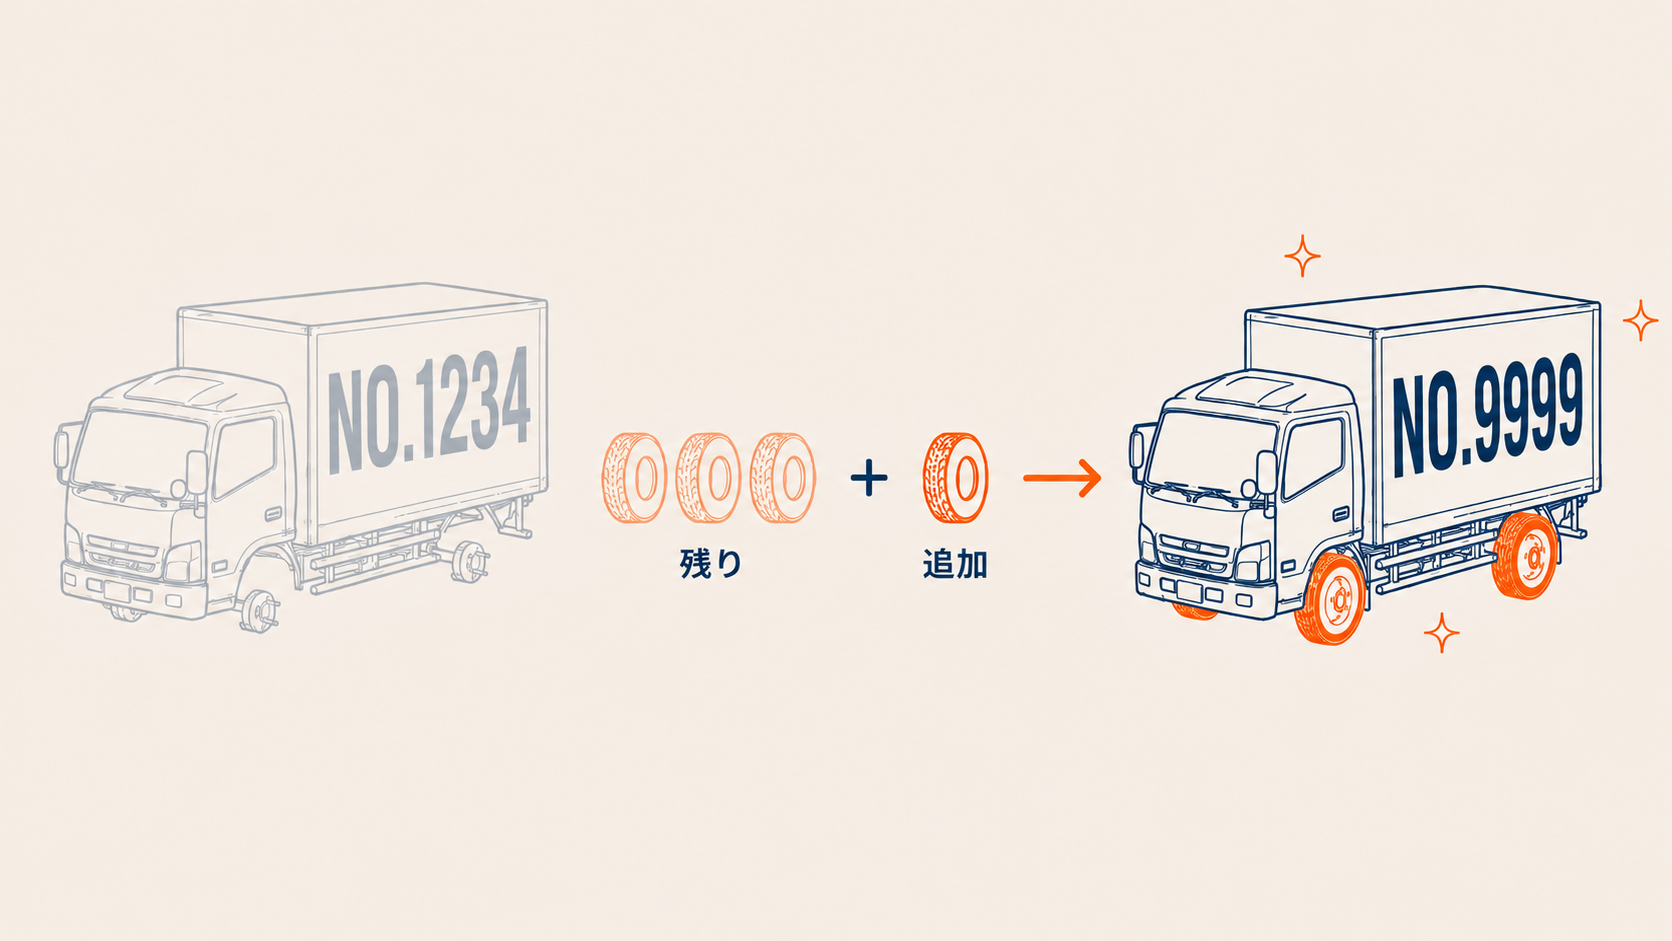
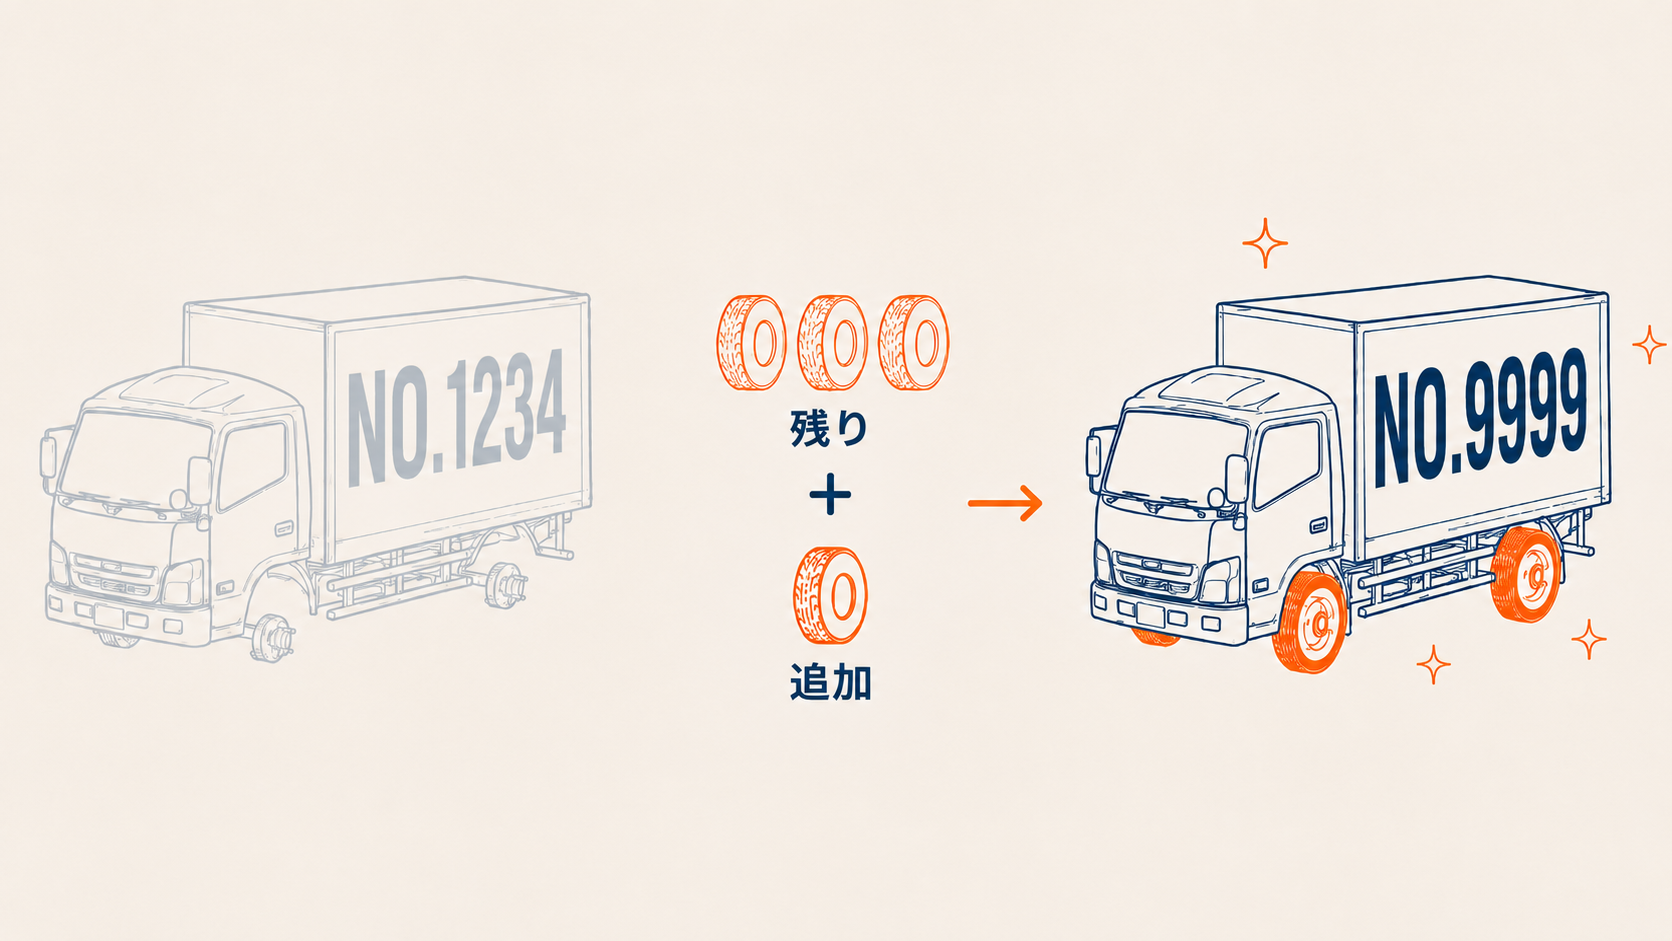
パターン03画像を縦スタック日本語ラベル版に更新、HTMLオーバーレイ削除
- lease-03.png を「残り (3本) + 追加 (1本)」を縦に積んだ新バージョンに差し替え
- 日本語ラベル「残り」「追加」が画像内に綺麗に焼き込まれたので、
  HTML側の .ja-label オーバーレイは不要になったため削除
- CSSの ja-label / ja-cover 関連スタイルも整理

diff --git a/index.html b/index.html
@@ -277,28 +277,6 @@ nav { position: fixed; top: 0; left: 0; right: 0; z-index: 100; display: flex; a
 }
 .lease-card:hover .lease-illust { background: #0a172e; }
 .lease-card:hover .lease-illust img { filter: brightness(0.92); }
-/* パターン03 用 日本語ラベルオーバーレイ (英語を完全に覆い隠す) */
-.lease-illust .ja-label {
-  position: absolute;
-  font-size: clamp(11px, 1.1vw, 13px);
-  font-weight: 700;
-  color: var(--navy);
-  letter-spacing: 0.06em;
-  background: var(--cream);
-  padding: 4px 12px;
-  white-space: nowrap;
-  transition: background 0.25s, color 0.25s;
-  font-family: 'Noto Sans JP', sans-serif;
-  transform: translate(-50%, -50%);
-  z-index: 2;
-  border-radius: 2px;
-  box-shadow: 0 0 0 6px var(--cream);
-}
-.lease-card:hover .lease-illust .ja-label {
-  background: var(--orange);
-  color: var(--white);
-  box-shadow: 0 0 0 6px #0a172e;
-}
 @media (max-width: 900px) {
   .lease-illust { aspect-ratio: 16 / 7; }
 }
@@ -715,9 +693,6 @@ footer { background: #07101e; padding: 36px 40px; display: flex; justify-content
       <div class="lease-card" data-anim data-d="5">
         <div class="lease-illust">
           <img src="images/lease-03.png" alt="新規車両で契約 - 未使用分に不足分を足して新車に装着" loading="lazy">
-          <!-- 英語ラベル (REMAINING / ADDITIONAL) を日本語に上書き -->
-          <span class="ja-label" style="left: 42%; top: 68%;">残り分</span>
-          <span class="ja-label" style="left: 60%; top: 68%;">追加分</span>
         </div>
         <div class="lease-body">
           <div class="lease-pat">PATTERN 03</div>
